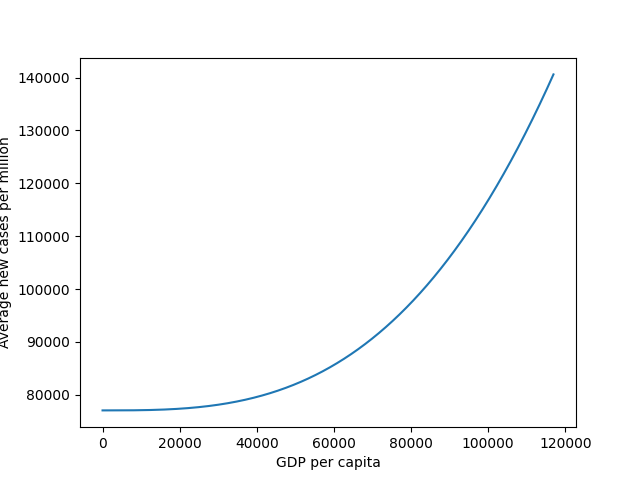
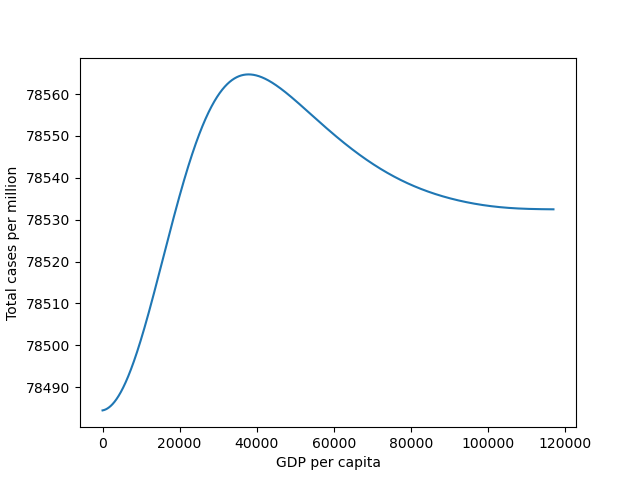
Modify

diff --git a/further_analysis.py b/further_analysis.py
@@ -290,7 +290,7 @@ def analyze_economy_and_COVID():
      
 
 def analyze_GDP_and_COVID():
-    data_OWID = load_data.read_data("D:/git/COVID-19_Analysis/data/owid-covid-data.csv")
+    data_OWID = load_data.read_data("./data/owid-covid-data.csv")
     data_OWID = load_data.extract_data(
         data_OWID, ["location", "new_cases_per_million", "gdp_per_capita"]
     )
@@ -310,27 +310,27 @@ def analyze_GDP_and_COVID():
     plt.scatter(gdp, new_cases)
     plt.xlabel("GDP per capita")
     plt.ylabel("Average new cases per million")
-    plt.savefig("D:/git/COVID-19_Analysis/result/GDP_relation_with_cases_raw.png")
+    plt.savefig("./result/GDP_relation_with_cases_raw.png")
     from sklearn.svm import SVR
     
-    model = SVR(kernel="poly")
+    model = SVR(kernel="rbf")
     model.fit(np.array(gdp).reshape(-1, 1), new_cases)
 
     X_fit = np.arange(gdp.max()).reshape(-1, 1)
     Y_fit = model.predict(X_fit)
     plt.figure()
     plt.plot(X_fit, Y_fit)
-    plt.ylabel("Average new cases per million")
+    plt.ylabel("Total cases per million")
     plt.xlabel("GDP per capita")
-    plt.savefig("D:/git/COVID-19_Analysis/result/GDP_relation_with_cases.png")
+    plt.savefig("./result/GDP_relation_with_cases.png")
     
 
 
 def main():
-    analyze_vaccination_and_hospitalization()
-    analyze_smokers_and_COVID()
-    analyze_policy_and_COVID()
-    analyze_economy_and_COVID()
+    # analyze_vaccination_and_hospitalization()
+    # analyze_smokers_and_COVID()
+    # analyze_policy_and_COVID()
+    # analyze_economy_and_COVID()
     analyze_GDP_and_COVID()
 
 main()
